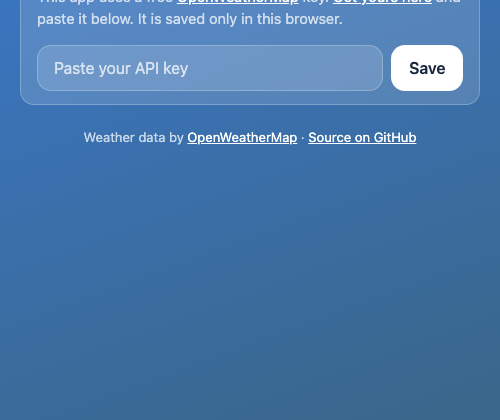
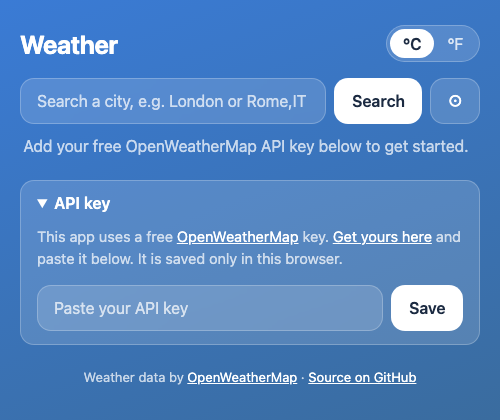
Day screenshot (Los Angeles), exact screenshot crops, country-code tip and placeholder

diff --git a/index.html b/index.html
@@ -22,7 +22,7 @@
 
         <form id="search-form" class="search" autocomplete="off">
             <label for="city-input" class="sr-only">City</label>
-            <input type="text" id="city-input" placeholder="Search for a city, e.g. London" required>
+            <input type="text" id="city-input" placeholder="Search a city, e.g. London or Rome,IT" required>
             <button type="submit" id="search-button">Search</button>
             <button type="button" id="locate-button" class="ghost" title="Use my location" aria-label="Use my location">&#9737;</button>
         </form>

diff --git a/README.md b/README.md
@@ -8,15 +8,17 @@ Built with plain HTML, CSS and JavaScript. No build step, no dependencies.
 
 ## Screenshots
 
-| London (clouds) | Sydney (rain) | Dubai (clear night, °F) |
+| Los Angeles (clear day) | Sydney (rain) | Dubai (clear night, °F) |
 |---|---|---|
-| ![London, broken clouds, 12 degrees, on a grey background](screenshots/london-clouds.png) | ![Sydney, light rain, 13 degrees, on a blue-grey background](screenshots/sydney-rain.png) | ![Dubai, clear sky at night in Fahrenheit, on a dark teal background](screenshots/dubai-clear-night-fahrenheit.png) |
+| ![Los Angeles, clear sky, 35 degrees, on a bright blue background](screenshots/los-angeles-clear-day.png) | ![Sydney, light rain, 13 degrees, on a blue-grey background](screenshots/sydney-rain.png) | ![Dubai, clear sky at night in Fahrenheit, on a dark teal background](screenshots/dubai-clear-night-fahrenheit.png) |
 
 The background changes with the weather and the time of day. On your first visit you will see the API key box:
 
 ![The API key box shown on first visit](screenshots/api-key-setup.png)
 
 *Screenshots show live data from OpenWeatherMap.*
+
+**Tip:** many city names exist in several countries (typing `Rome` gives Rome, USA). Add a country code to be exact, for example `Rome,IT` or `Paris,FR`.
 
 ## Get an API key (required)
 
